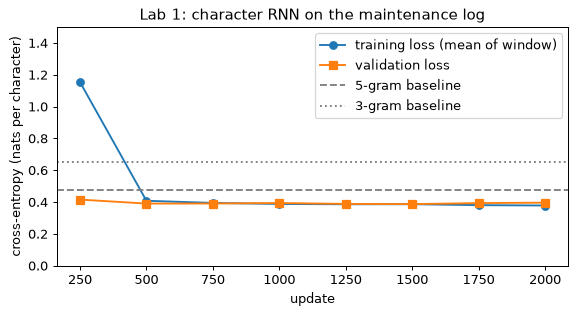
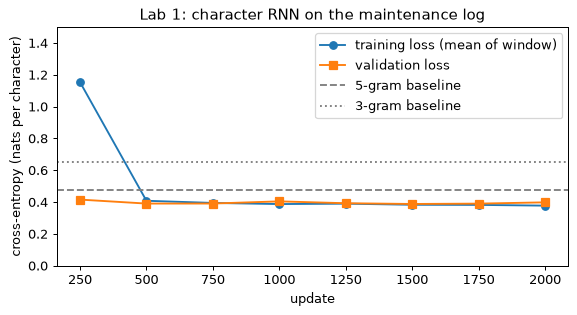
Module 04: write the labs' real outputs and plots from the current environment
The printed outputs came from an earlier environment; run with PyTorch
2.14.1, NumPy 2.4.6 and scikit-learn 1.9.1 on CPU (4 threads), every lab
printed different numbers. labrun --update writes the real outputs, and a
second run without --update reproduces every block exactly, apart from
Lab 5's wall-clock timings. The prose that quotes these numbers is
reconciled in the next commit.

Claude-Session: https://claude.ai/code/session_01KrzjB21B1GFMGN5fyNzMdb

Changed region(s): [[0.3744, 0.6286, 0.7175, 0.6571], [0.7487, 0.6286, 0.8735, 0.6571], [0.9047, 0.6286, 0.9359, 0.6571]]

diff --git a/tutorial-sources/ai/src/en/module_04/20-labs-a.md b/tutorial-sources/ai/src/en/module_04/20-labs-a.md
@@ -463,12 +463,12 @@ print(f"largest gradient norm before clipping: {max(grad_norm_log):.2f}; "
 update  250  train 1.154  val 0.416  grad norm 0.22
 update  500  train 0.408  val 0.391  grad norm 0.20
 update  750  train 0.395  val 0.391  grad norm 0.16
-update 1000  train 0.388  val 0.394  grad norm 0.29
-update 1250  train 0.386  val 0.389  grad norm 0.21
-update 1500  train 0.387  val 0.387  grad norm 0.18
-update 1750  train 0.381  val 0.394  grad norm 0.15
-update 2000  train 0.379  val 0.397  grad norm 0.27
-best validation loss 0.387 at update 1500; 5-gram 0.476
+update 1000  train 0.388  val 0.405  grad norm 0.27
+update 1250  train 0.390  val 0.393  grad norm 0.24
+update 1500  train 0.383  val 0.388  grad norm 0.21
+update 1750  train 0.382  val 0.390  grad norm 0.16
+update 2000  train 0.378  val 0.399  grad norm 0.27
+best validation loss 0.388 at update 1500; 5-gram 0.476
 largest gradient norm before clipping: 1.43; updates clipped: 0
 ```
 
@@ -541,19 +541,19 @@ for tau, generated in samples.items():
 
 ```output
 --- temperature 0.5 ---
-P4 temp 55.6 C ok /P1
-P2 pres 4.0 bar after restart ok /P2
-P1 pres 4.4 bar ok /P2
-P2 vib 2.6 mm/s ok /P1
+P4 temp 55.5 C ok /P1
+P2 pres 4.0 bar after restart ok /P3
+P1 pres 3.3 bar ok /P2
+P2 vib 2.7 mm/s ok /P1
 P1 temp 68.5 C ok /P2
-P2 vib 3.7 mm/s ok /P1
+P2 temp 58.9 C ok /P3
 --- temperature 1.0 ---
 P1 temp 58.5 C ok /C1
-P4 temp 52.8 C ok /P4
-P3 vib 7.4 mm/s night shift high /P3
-F2 temp 64.1 C operator check ok /P2
-P1 pres 5.6 bar operator check high /P3
-P1 temp 57.8 C ok /P3
+P4 temp 52.7 C ok /P4
+P3 vib 8.4 mm/s high /F2
+P2 pres 1.7 bar operator check ok /P1
+C1 temp 84.8 C night shift ok /F1
+C2 pres 1.9 bar night shift ok /P1
 ```
 
 The samples read like the log. Units follow quantities, values are plausible numbers, and statuses
@@ -609,11 +609,11 @@ print("always-ok baseline for the status: about 73%;  guessing the tag: 12.5%")
 
 ```output
                        tau = 0.5 tau = 1.0
-lines                        225       194
-well-formed               100.0%     93.8%
+lines                        225       193
+well-formed               100.0%     95.3%
 unit agrees               100.0%    100.0%
-status agrees              99.1%     98.9%
-closing tag matches        20.9%     12.6%
+status agrees              99.1%     95.7%
+closing tag matches        20.9%     12.0%
 always-ok baseline for the status: about 73%;  guessing the tag: 12.5%
 ```
 
@@ -826,7 +826,7 @@ default W_hh: spectral radius 0.57, largest singular value 1.10
                       lag 1       lag 10      lag 25      lag 50      lag 100     lag 199
 rnn default           5.23e-01    1.66e-03    1.76e-07    2.38e-14    7.83e-28    0.00e+00
 rnn orthogonal        1.23e+00    2.26e-01    3.08e-02    1.50e-03    1.71e-06    3.04e-12
-rnn orthogonal x1.5   1.32e+00    1.74e+00    3.38e+00    9.82e+00    1.18e+02    1.92e+04
+rnn orthogonal x1.5   1.32e+00    1.74e+00    3.38e+00    9.64e+00    1.17e+02    2.02e+04
 lstm b=0              5.05e-01    6.22e-03    4.83e-06    4.24e-11    2.75e-21    6.48e-41
 lstm b=3              4.36e-01    3.34e-01    3.20e-01    2.84e-01    3.36e-01    7.77e+00
 lstm b=5              1.85e-01    1.41e-01    1.50e-01    1.93e-01    3.85e-01    3.41e+01
@@ -1108,20 +1108,20 @@ for name, kind, bias in [("RNN", "rnn", 0.0), ("LSTM b_f=0", "lstm", 0.0),
 ```output
 effective forget bias at initialisation (bias_ih + bias_hh), forget slice: 1.0
 RNN          update  500  val 0.400  closing-tag accuracy 24.7%
-RNN          update 1000  val 0.397  closing-tag accuracy 18.7%
-RNN          update 1500  val 0.388  closing-tag accuracy 14.2%
-RNN          update 2000  val 0.405  closing-tag accuracy 20.1%
-RNN          update 2500  val 0.399  closing-tag accuracy 20.4%
-LSTM b_f=0   update  500  val 0.386  closing-tag accuracy 13.5%
-LSTM b_f=0   update 1000  val 0.395  closing-tag accuracy 15.3%
-LSTM b_f=0   update 1500  val 0.391  closing-tag accuracy 19.3%
-LSTM b_f=0   update 2000  val 0.390  closing-tag accuracy 44.2%
-LSTM b_f=0   update 2500  val 0.377  closing-tag accuracy 79.1%
+RNN          update 1000  val 0.399  closing-tag accuracy 15.0%
+RNN          update 1500  val 0.390  closing-tag accuracy 19.9%
+RNN          update 2000  val 0.406  closing-tag accuracy 14.1%
+RNN          update 2500  val 0.415  closing-tag accuracy 15.0%
+LSTM b_f=0   update  500  val 0.384  closing-tag accuracy 10.9%
+LSTM b_f=0   update 1000  val 0.396  closing-tag accuracy 12.2%
+LSTM b_f=0   update 1500  val 0.383  closing-tag accuracy 21.8%
+LSTM b_f=0   update 2000  val 0.374  closing-tag accuracy 64.6%
+LSTM b_f=0   update 2500  val 0.379  closing-tag accuracy 77.5%
 LSTM b_f=1   update  500  val 0.387  closing-tag accuracy 10.2%
-LSTM b_f=1   update 1000  val 0.393  closing-tag accuracy 19.7%
-LSTM b_f=1   update 1500  val 0.373  closing-tag accuracy 26.8%
-LSTM b_f=1   update 2000  val 0.384  closing-tag accuracy 50.8%
-LSTM b_f=1   update 2500  val 0.375  closing-tag accuracy 86.0%
+LSTM b_f=1   update 1000  val 0.395  closing-tag accuracy 16.7%
+LSTM b_f=1   update 1500  val 0.373  closing-tag accuracy 35.3%
+LSTM b_f=1   update 2000  val 0.396  closing-tag accuracy 39.8%
+LSTM b_f=1   update 2500  val 0.395  closing-tag accuracy 64.2%
 ```
 
 The effective forget bias is 1, as intended. Each curve is one run, and
@@ -1279,8 +1279,8 @@ plt.show()
 ```
 
 ```output
-8000 samples, range -1.00 .. 9.58, standard deviation 2.38
-first 1000 samples: mean 0.49; last 1000: mean 7.49
+8000 samples, range -1.00 .. 9.49, standard deviation 2.38
+first 1000 samples: mean 0.49; last 1000: mean 7.48
 ```
 
 The series rises from a mean of about 0.5 over the first 1,000 samples to about 7.5 over the last
@@ -1376,9 +1376,9 @@ print(f"LSTM  RMSE {rmse(pred, Y_te.numpy()) * sd:.3f}   "
 ```
 
 ```output
-normalised inputs, training: -2.18 .. 2.30   test: 0.98 .. 3.60
+normalised inputs, training: -2.18 .. 2.32   test: 1.02 .. 3.55
 parameters 12,961
-LSTM  RMSE 0.423   naive RMSE 0.373   LSTM mean error -0.315
+LSTM  RMSE 0.427   naive RMSE 0.361   LSTM mean error -0.317
 ```
 
 The test windows, after normalising with the training statistics, lie between 0.98 and 3.60, while
@@ -1432,7 +1432,7 @@ plt.show()
 ```
 
 ```output
-fixed LSTM RMSE 0.135   mean error +0.030
+fixed LSTM RMSE 0.132   mean error +0.024
 ```
 
 The fixed model's RMSE is about 0.135 with a mean error close to zero, a third of the naive error
@@ -1522,13 +1522,13 @@ print("LSTM improvement over linear AR per fold: " + ", ".join(f"{g:.0%}" for g 
 
 ```output
   origin           naive  seasonal naive       linear AR            LSTM
-    4000           0.393           0.870           0.166           0.145
-    5000           0.376           0.820           0.148           0.132
-    6000           0.355           0.855           0.153           0.135
-    7000           0.386           0.861           0.167           0.133
-    mean           0.378           0.851           0.159           0.136
-      sd           0.015           0.019           0.008           0.005
-LSTM improvement over linear AR per fold: 13%, 11%, 12%, 21%
+    4000           0.393           0.869           0.166           0.145
+    5000           0.389           0.844           0.148           0.130
+    6000           0.342           0.791           0.151           0.134
+    7000           0.377           0.854           0.154           0.130
+    mean           0.375           0.840           0.155           0.135
+      sd           0.020           0.029           0.007           0.006
+LSTM improvement over linear AR per fold: 13%, 12%, 12%, 16%
 ```
 
 The ordering is the same in every fold. The naive forecast has an RMSE of about 0.38. The
@@ -1620,12 +1620,12 @@ plt.show()
 ```output
 direct model trained; 981 forecast origins
        RMSE at h =       1       5      10      20
-             naive   0.355   1.071   0.578   0.776
-    seasonal naive   0.857   0.857   0.857   0.854
-  linear recursive   0.153   0.400   0.492   0.576
-     linear direct   0.153   0.400   0.491   0.574
-    LSTM recursive   0.134   0.395   0.483   0.734
-       LSTM direct   0.150   0.399   0.469   0.573
+             naive   0.342   1.018   0.621   0.720
+    seasonal naive   0.792   0.791   0.790   0.789
+  linear recursive   0.151   0.400   0.526   0.551
+     linear direct   0.151   0.400   0.526   0.552
+    LSTM recursive   0.133   0.418   0.531   0.775
+       LSTM direct   0.152   0.402   0.497   0.561
 ```
 
 Look at three things.
@@ -1763,14 +1763,14 @@ plt.show()
 ```
 
 ```output
-hold-out residual sigma 0.131; point threshold 0.525; rolling-RMS limit 0.197; rolling-std floor 0.031
-residual RMS on the clean hold-out 0.135; during the excitation fault 0.206
+hold-out residual sigma 0.131; point threshold 0.525; rolling-RMS limit 0.195; rolling-std floor 0.038
+residual RMS on the clean hold-out 0.134; during the excitation fault 0.210
 
 fault                        point           rolling RMS           rolling std
 spike               2 alarms, first +0       21 alarms, first +0                      none
-offset              5 alarms, first +0       63 alarms, first +4                      none
-excitation        2 alarms, first +151     194 alarms, first +85                      none
-stuck                             none                      none      82 alarms, first +19
+offset              3 alarms, first +0       58 alarms, first +4                      none
+excitation        5 alarms, first +151     208 alarms, first +99                      none
+stuck             1 alarms, first +100                      none      79 alarms, first +21
 
 normal samples in 7,000-7,999: 239; false-alarm samples: point 0, rolling RMS 0, rolling std 0
 ```

diff --git a/tutorial-sources/ai/src/en/module_04/21-labs-b.md b/tutorial-sources/ai/src/en/module_04/21-labs-b.md
@@ -225,13 +225,13 @@ train(attn, STEPS)
 
 ```output
 without attention
-  step  500  loss 0.5832
-  step 1000  loss 0.4171
-  step 1500  loss 0.3391
+  step  500  loss 0.5913
+  step 1000  loss 0.4242
+  step 1500  loss 0.3684
 with attention
-  step  500  loss 0.0180
-  step 1000  loss 0.0061
-  step 1500  loss 0.0001
+  step  500  loss 0.0149
+  step 1000  loss 0.0100
+  step 1500  loss 0.0002
 ```
 
 The loss is a mean over real target tokens, in nats. The model with attention is below 0.02 by step
@@ -275,9 +275,9 @@ for name, model in [("no attention", plain), ("attention", attn)]:
 
 ```output
 model         length  sequence  teacher-forced  free-running
-no attention      4     99.2%           99.8%         99.7%
-no attention      8     35.6%           90.6%         78.2%
-no attention     12      0.8%           73.0%         51.1%
+no attention      4     98.4%           99.7%         99.4%
+no attention      8     42.6%           91.4%         80.3%
+no attention     12      1.0%           74.1%         52.7%
 attention         4    100.0%          100.0%        100.0%
 attention         8    100.0%          100.0%        100.0%
 attention        12    100.0%          100.0%        100.0%
@@ -352,8 +352,8 @@ print(f"beam k=4 {beam_ok:3d}/200 correct strings, token accuracy {100 * beam_to
 ```
 
 ```output
-greedy     0/200 correct strings, token accuracy 51.8%
-beam k=4   0/200 correct strings, token accuracy 52.5%
+greedy     0/200 correct strings, token accuracy 52.3%
+beam k=4   0/200 correct strings, token accuracy 49.1%
 ```
 
 Beam search changes almost nothing: no string out of 200 is right under either method, and token
@@ -414,7 +414,7 @@ plt.show()
 source : [1, 1, 7, 4, 5, 6, 7, 0]
 output : [0, 7, 6, 5, 4, 7, 1, 1, 12] (12 = EOS)
 argmax of each row: [7, 6, 5, 4, 3, 2, 1, 0, 0]
-peak weights:       ['0.74', '0.72', '0.72', '0.81', '0.74', '0.79', '0.65', '0.83', '0.25']
+peak weights:       ['0.84', '0.75', '0.66', '0.71', '0.65', '0.79', '0.63', '0.68', '0.26']
 weight on padding:  0.000000
 ```
 
@@ -460,13 +460,13 @@ for name, model in [("unpacked", unpacked), ("packed", packed)]:
 
 ```output
 unpacked encoder
-  step  266  loss 0.0250
-  step  532  loss 0.0108
-  step  798  loss 0.0042
+  step  266  loss 0.0273
+  step  532  loss 0.0194
+  step  798  loss 0.0105
 packed encoder
-  step  266  loss 0.0206
-  step  532  loss 0.0099
-  step  798  loss 0.0065
+  step  266  loss 0.0128
+  step  532  loss 0.0083
+  step  798  loss 0.0054
 unpacked  length 4: padded to 12 100.0%   cut to 4   0.0%
 packed    length 4: padded to 12 100.0%   cut to 4 100.0%
 ```
@@ -675,9 +675,9 @@ plt.show()
 
 ```output
    T   max|loop - fft|   loop ms   fft ms   speed-up
-  256        3.58e-06        1.3      0.4      2.9x
- 1024        1.35e-05        5.0      2.1      2.4x
- 4096        1.48e-05       20.3     17.7      1.1x
+  256        3.10e-06        4.2      3.8      1.1x
+ 1024        1.29e-05       19.8     13.8      1.4x
+ 4096        1.41e-05       79.1     70.0      1.1x
 ```
 
 The two outputs agree to float32 round-off, of the order of $10^{-5}$ on outputs of order 1, a
@@ -804,7 +804,7 @@ for name, kind, fb in configs:
 
 ```output
 model                  lag 25 : acc  solved  lag 100: acc  solved  lag 200: acc  solved
-vanilla RNN                 63.3%       -       75.1%       -     skipped
+vanilla RNN                 77.2%       -      100.0%       -     skipped
 LSTM, forget bias 1         11.8%       -       11.8%       -       11.8%       -
 LSTM, forget bias 5        100.0%      74       12.6%       -       12.6%       -
 diagonal linear            100.0%     124      100.0%     238      100.0%       -
